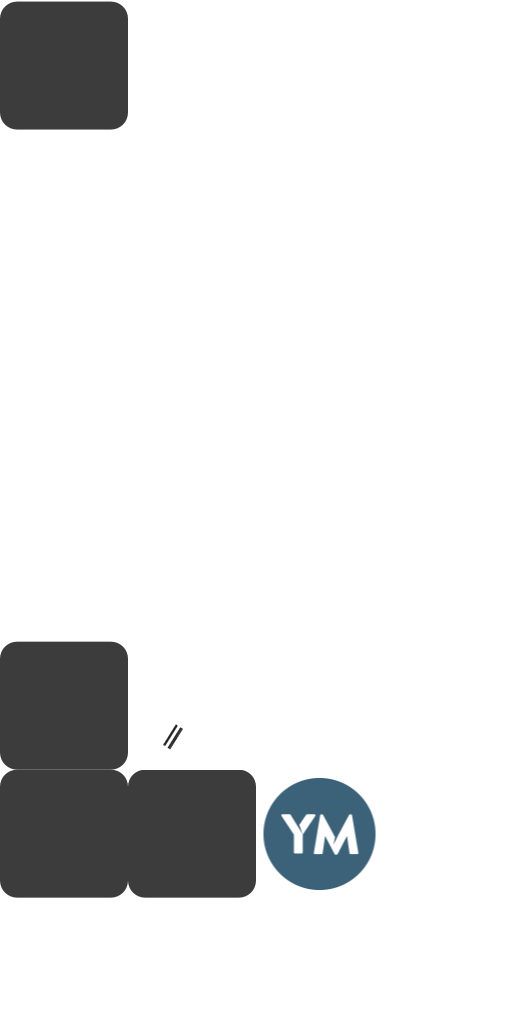
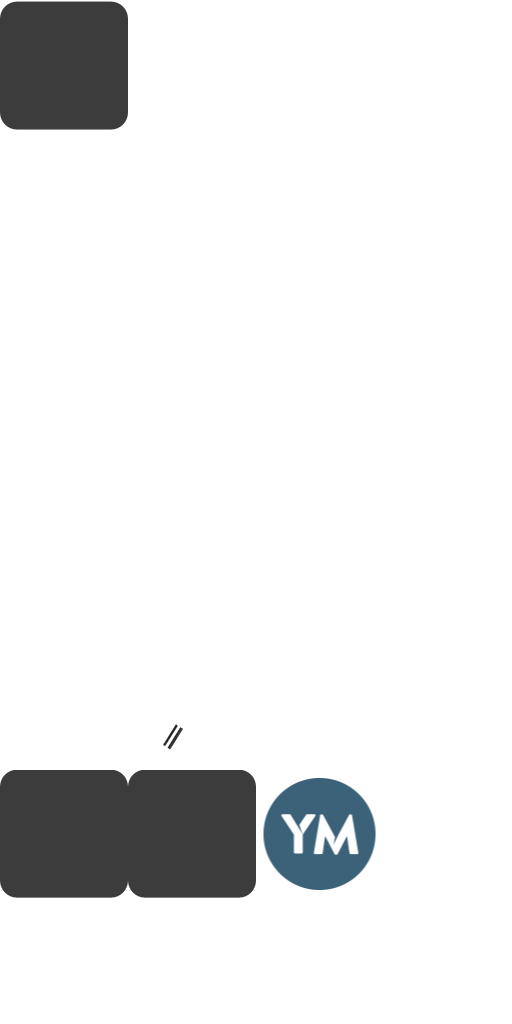
add center button

Changed region(s): [[0.0, 0.625, 0.25, 0.75]]

diff --git a/Cura/gui/sceneView.py b/Cura/gui/sceneView.py
@@ -84,6 +84,8 @@ class SceneView(openglGui.glGuiPanel):
 		self.resetScaleButton    = openglGui.glButton(self, 13, _("Reset"), (1,-2), self.OnScaleReset)
 		self.scaleMaxButton      = openglGui.glButton(self, 17, _("To max"), (1,-3), self.OnScaleMax)
 
+		self.resetTranslateButton = openglGui.glButton(self, 20, _("Center"), (2, -2), self.OnTranslateReset)
+
 		self.mirrorXButton       = openglGui.glButton(self, 14, _("Mirror X"), (3,-2), lambda button: self.OnMirror(0))
 		self.mirrorYButton       = openglGui.glButton(self, 18, _("Mirror Y"), (3,-3), lambda button: self.OnMirror(1))
 		self.mirrorZButton       = openglGui.glButton(self, 22, _("Mirror Z"), (3,-4), lambda button: self.OnMirror(2))
@@ -496,6 +498,7 @@ class SceneView(openglGui.glGuiPanel):
 		self.layFlatButton.setHidden(not self.rotateToolButton.getSelected())
 		self.resetScaleButton.setHidden(not self.scaleToolButton.getSelected())
 		self.scaleMaxButton.setHidden(not self.scaleToolButton.getSelected())
+		self.resetTranslateButton.setHidden(not self.translateToolButton.getSelected())
 		self.scaleForm.setHidden(not self.scaleToolButton.getSelected())
 		self.mirrorXButton.setHidden(not self.mirrorToolButton.getSelected())
 		self.mirrorYButton.setHidden(not self.mirrorToolButton.getSelected())
@@ -583,6 +586,11 @@ class SceneView(openglGui.glGuiPanel):
 		self._selectObject(self._selectedObj)
 		self.updateProfileToControls()
 		self.sceneUpdated()
+
+	def OnTranslateReset(self, button):
+		self._selectedObj.setPosition(numpy.array([0.0, 0.0]))
+		#check collision !
+		# pass
 
 	def OnMirror(self, axis):
 		if self._selectedObj is None:
